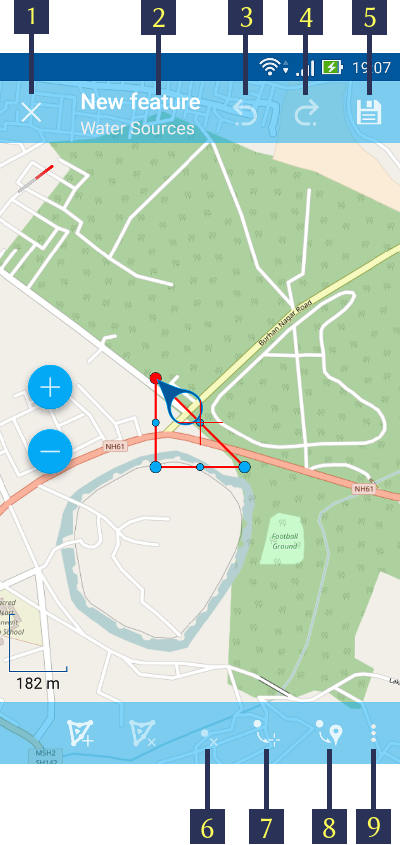
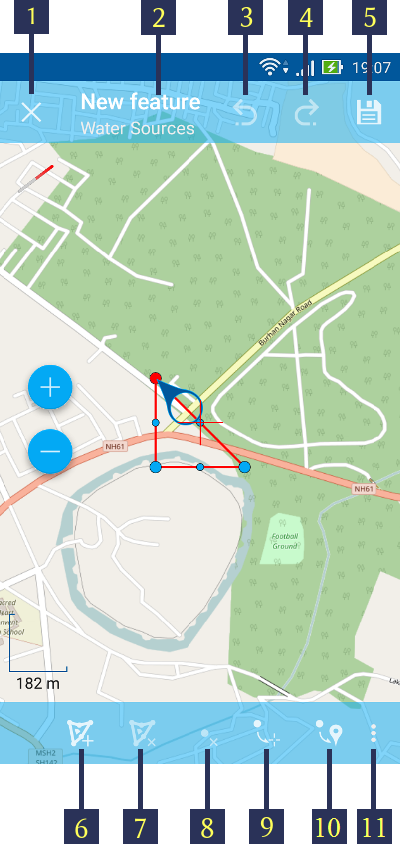
update Editing

diff --git a/source/editing.rst b/source/editing.rst
@@ -3,7 +3,7 @@
 .. _ngmobile_editing:
 
 Editing layers
-==============
+===============
 
 NextGIS Mobile allows you to edit vector layers added to the map. While editing, you can:
 
@@ -11,51 +11,27 @@ NextGIS Mobile allows you to edit vector layers added to the map. While editing,
 * delete features;
 * edit features.
 
-Switching to Edit mode
-----------------------
+.. _ngmobile_switch_to_edit:
 
-There are several ways to start edit mode.
+Switching to Edit mode
+-----------------------
+
+There are several ways to switch to Edit mode.
 
 1. The first way is Main actions button (the big blue button in the right bottom corner of map screen). Pressing Main actions button opens a menu of most common actions (see :numref:`ngmobile_common_action_menu_pic`).
 
 .. figure:: _static/ngmobile_mainscreen_2.png
    :name: ngmobile_common_action_menu_pic
    :align: center
-   :height: 11cm
+   :height: 10cm
    
    Common actions menu.   
    
-   The numbers indicate: 1 - Zoom in; 2 - Zoom out; 3 – Scale ruler; 4 - Measure button; 5 - Geometry by tracking; 6 - Edit layers; 7 - Add current location; 8 - Close action menu.
+   The numbers indicate: 1 - Zoom in; 2 - Zoom out; 3 – Scale ruler; 4 - Measure button; 5 - Add geometry by tracking; 6 - Edit layers; 7 - Add current location; 8 - Close action menu.
 
-You need to tap the pencil button (item 6 in :numref:`ngmobile_common_action_menu_pic`) to go to edit mode.
+You need to tap the pencil button (item 6 in :numref:`ngmobile_common_action_menu_pic`) to switch to Edit mode.
 
-2. The second way to start editing is to long-press the geometry. This will open an Editing Toolbar at the bottom. There you need to tap the "Edit" button to switch on to edit mode (item 3 in ).
-
-3. In the third way, tap on "Layers tree menu" (item 1 in :numref:`ngmobile_main_activity_pic_1`). Then tap on the context menu button next to the layer name (item 5 in :numref:`ngmobile_layer_tree_pic`). This will pop up the context menu itms as shown in item 6 in :numref:`ngmobile_layer_tree_pic`. There you need to select "Edit".
-
-The Editing Toolbar
--------------------
-
-After switching to edit mode from any of the above, an Editing Toolbar is opened at the bottom of the map screen. (see :numref:`ngmobile_editing_toolbar_pic`)
-
-.. figure:: _static/toolbar_edit_layer.png
-   :name: ngmobile_editing_toolbar_pic
-   :align: center
-   :width: 10cm
-   
-   Editing Toolbar.
-   
-   The numbers indicate: 1 - Quit edit mode; 2 - Add new feature; 3 – Edit feature; 4 - Delete feature; 5 - Atributes info.
-   
-.. note::
-   This editing toolbar is common for all type of layers, viz, point, line or polygon.
-
-.. _ngmobile_add_geometry:
-
-Adding features
----------------
-
-If you select the first method To add feature to a vector layer by pressing Main actions button, press a pencil icon (see item 6 in :numref:`ngmobile_common_action_menu_pic`). Tap on a layer name, you'd like to edit in an opened dialog (see :numref:`ngmobile_select_layer_dialogtch_pic`). 
+Then select a vector layer you want to edit in an opened dialog (see :numref:`ngmobile_select_layer_dialogtch_pic`). 
 
 .. figure:: _static/select_layer_dialogtch.png
    :name: ngmobile_select_layer_dialogtch_pic
@@ -64,94 +40,171 @@ If you select the first method To add feature to a vector layer by pressing Main
    
    Select layer dialog.
 
-After you select a layer, map screen switches into Edit mode. It displays an editing toolbar at the bottom of the map screen, as shown in :numref:`ngmobile_editing_toolbar_pic`. You can create any type of geometry (points, lines or polygons).
+2. The second way to switch to Edit mode is to long-press the geometry you want to edit. 
+
+3. The third way is to open Layers tree panel (item 1 in :numref:`ngmobile_main_activity_pic_1`) and tap on Layer contextual menu icon next to the vector layer name (item 5 in :numref:`ngmobile_layer_tree_pic`). This will the contextual menu items (item 6 in :numref:`ngmobile_layer_tree_pic`). There you need to select "Edit".
+
+The Editing Toolbar
+--------------------
+
+After switching to Edit mode using any of the methods described in :ref:`ngmobile_switch_to_edit` section Editing Toolbar is opened at the bottom of the map screen (see :numref:`ngmobile_editing_toolbar_pic`).
+
+.. figure:: _static/toolbar_edit_layer.png
+   :name: ngmobile_editing_toolbar_pic
+   :align: center
+   :width: 6cm
+   
+   Editing Toolbar.
+   
+   The numbers indicate: 1 - Quit Edit mode; 2 - Add new feature; 3 – Edit feature; 4 - Delete feature; 5 - Attributes info.
+   
+.. note::
+   This editing toolbar is common for all vector layers irrespective of the type of geometry they contain (point, line or polygon).
+
+.. _ngmobile_add_geometry:
+
+Adding features
+----------------
+
+To create a new feature first select a layer you want to add this feature to. Then switch to Edit mode using any of the methods described in :ref:`ngmobile_switch_to_edit` section. 
+
+After Editing Toolbar is opened tap "Add new feature" button (item 2 in :numref:`ngmobile_editing_toolbar_pic`). 
+
+.. note::
+   Type of geometry of a new feature should correspond to the type of geometry of the layer you want to add this feature to (e.g. you can only add a new point to a point/multipoint vector layer, a new line - to a line/multiline vector layer, etc.).
+
+.. note::
+   If you want to start adding new features from scratch first you have to create an empty layer as described in :ref:`ngmobile_create_vector` section.
 
 .. _ngmobile_add_point:
 
 Adding a point
-^^^^^^^^^^^^^^
+^^^^^^^^^^^^^^^
 
-To add a point to an existing layer first select a point vector layer from any of the 3 methods mentioned above. Then tap on the + icon in Bottom toolbar (item 2 in :numref:`ngmobile_editing_toolbar_pic`).
+1. To create a new point first select a point/miltipoint vector layer you want to add this feature to. Then switch to Edit mode using any of the methods described in :ref:`ngmobile_switch_to_edit` section. 
 
-New point will appear in the center of the screen highlighted in red, together with arrow icon. You can move this point any where on the map screen by simply holding the circular handle. The red cross hair marker is left behind at the center of the map screen.(see :numref:`ngmobile_creation_of_points_pic`).
+2. Tap "Add new feature" button in Editing Toolbar (item 2 in :numref:`ngmobile_editing_toolbar_pic`). 
+
+3. In a point layer a new point will appear in the center of the screen highlighted in red. You can move this point anywhere on the map simply by dragging the circular handle attached to it. The red crosshair marker indicates the center of Map screen.(see :numref:`ngmobile_creation_of_points_pic`).
 
 .. figure:: _static/creation_of_points.png
    :name: ngmobile_creation_of_points_pic
    :align: center
    :height: 10cm
 
-   Creating a point.
+   Adding a point to Point layer.
    
-   The numbers indicate: 1 - Close editing (without saving); 2 - Feature Id & name of the Layer; 3 - Undo changes; 4 - Redo changes; 5 - Set attributes; 6 - Move point to the Red Crossover (Center); 7 - Move point to the current location.
+   The numbers indicate: 1 - Quit (without saving); 2 - Feature ID & Name of the Layer; 3 - Undo changes; 4 - Redo changes; 5 - Set attributes; 6 - Move point to the center of Map screen; 7 - Move point to the current location.
 
-After new point is added geometrically, you need to set its attributes by tapping on the "floppy" button (item 5 in :numref:`ngmobile_creation_of_points_pic`). Pressing floppy icon will save a new point and open Attributes editing form (see :numref:`ngmobile_input_form_attributes_pic`).
+4. In a multipoint layer tap "Add point" (item 6 in :numref:`ngmobile_creation_of_multipoints_pic`) and follow the steps described above.
+
+.. figure:: _static/creation_of_multipoints.png
+   :name: ngmobile_creation_of_multipoints_pic
+   :align: center
+   :height: 10cm
+
+   Adding a point to Multipoint layer.
+   
+   The numbers indicate: 1 - Quit (without saving); 2 - Feature ID & Name of the Layer; 3 - Undo changes; 4 - Redo changes; 5 - Set attributes; 6 - Add point; 7 - Delete point; 8 - Move point to the center of Map screen; 9 - Move point to the current location.
+
+5. After a geometry of new point is added you may set its attributes by tapping on the "floppy" button (item 5 in :numref:`ngmobile_creation_of_points_pic` and :numref:`ngmobile_creation_of_multipoints_pic`). Pressing floppy icon will save a new point and open Attributes editing form (see :numref:`ngmobile_input_form_attributes_pic`).
 
 .. figure:: _static/input_form_attributes.png
    :name: ngmobile_input_form_attributes_pic
    :align: center
    :height: 10cm
    
-   Standard attributes editing form.
+   Attributes editing form.
    
-   The numbers indicate: 1 - Back to previous screen; 2 - Apply changes; 3 - Camera.
+   The numbers indicate: 1 - Back to previous screen; 2 - Apply changes; 3 - Add photo.
    
-Once all the attributes are filled, tap on the Tick icon on the right top corner (item 2 in :numref:`ngmobile_input_form_attributes_pic`) to save the attributes. If you tap on the back button on the left top corner (item 1 in :numref:`ngmobile_input_form_attributes_pic`), the system will warn you of any unsaved changes. The Camera icon at the bottom (item 3 in :numref:`ngmobile_input_form_attributes_pic`) facilitates you to open any photograph from the local storage or take a new photograph of the geographic object just digitized.
+5. When all the attributes are set tap "Apply changes" button (item 2 in :numref:`ngmobile_input_form_attributes_pic`) to save the attributes. If you tap "Back" button instead (item 1 in :numref:`ngmobile_input_form_attributes_pic`) the app will warn you of any unsaved changes. You can also attach photos to each feature using "Add photo" button in Attributes editing form (item 3 in :numref:`ngmobile_input_form_attributes_pic`).
 
 .. _ngmobile_add_line:
 
 Adding a line
 ^^^^^^^^^^^^^
 
-To add a line to an existing layer first select a line vector layer from any of the 3 methods mentioned above. Then tap on the + icon in Bottom toolbar (item 2 in :numref:`ngmobile_editing_toolbar_pic`).
+1. To create a new point first select a linestring/multilinestring vector layer you want to add this feature to. Then switch to Edit mode using any of the methods described in :ref:`ngmobile_switch_to_edit` section. 
 
-New line will appear in the center of the screen, with one of its vertices highlighted in red and with arrow icon (see :numref:`ngmobile_creating_lines_pic`).
+2. Tap "Add new feature" button in Editing Toolbar (item 2 in :numref:`ngmobile_editing_toolbar_pic`).  
+
+3. In a linestring layer a new line will appear in the center of the screen, with one of its vertices highlighted in red (see :numref:`ngmobile_creating_lines_pic`).
 
 .. figure:: _static/creating_lines.png
    :name: ngmobile_creating_lines_pic
    :align: center
    :height: 10cm
 
-   Creating a line.
+   Adding a line to Linestring layer.
    
-   The numbers indicate: 1 - Close editing (without saving); 2 - Feature Id & name of the Layer; 3 - Undo changes; 4 - Redo changes; 5 - Set attributes; 6  - Delete vertex; 7 - Move point to the Red Crossover (Center); 8 - Move point to the current location; 9 - Start tracking mode.
+   The numbers indicate: 1 - Quit (without saving); 2 - Feature ID & name of the Layer; 3 - Undo changes; 4 - Redo changes; 5 - Set attributes; 6  - Delete vertex; 7 - Move vertex to the center of Map screen; 8 - Move vertex to the current location; 9 - Edit by walk.
    
-You can move the vertices any where on the map screen by holding their handle. If you tap on the middle vertex, it will create  two extra vertices automatically. Again in their turn you can move & create as many vertices till your purpose is served. In this way you can even get a smooth curve as per the geographic shape.
+You can move the vertices anywhere on the map simply by dragging the circular handle attached to the selected vertex. If you tap on the vertex in the middle of the line, two new vertices will be created automatically. This way you can add as many vertices as you need and shape the line geometry any way you like, including smooth curves.
 
-After new line is added geometrically, you need to set its attributes by tapping on the "floppy" button (item 5 in :numref:`ngmobile_creating_lines_pic`). Pressing floppy icon will save a new line and open Attributes editing form as shown in :numref:`ngmobile_input_form_attributes_pic` above.   
+4. In a multilinestring layer tap "Add line" (item 6 in :numref:`ngmobile_creating_multilines_pic`) and follow the steps described above.
 
-Once all the attributes are filled, tap on the Tick icon on the right top corner (item 2 in :numref:`ngmobile_input_form_attributes_pic`) to save the attributes. If you tap on the back button on the left top corner (item 1 in :numref:`ngmobile_input_form_attributes_pic`), the system will warn you of any unsaved changes. The Camera icon at the bottom (item 3 in :numref:`ngmobile_input_form_attributes_pic`) facilitates you to open any photograph from the local storage or take a new photograph of the geographic object just digitized.
+.. figure:: _static/creating_multilines.png
+   :name: ngmobile_creating_multilines_pic
+   :align: center
+   :height: 10cm
+
+   Adding a line to Multilinestring layer.
+   
+   The numbers indicate: 1 - Quit (without saving); 2 - Feature ID & name of the Layer; 3 - Undo changes; 4 - Redo changes; 5 - Set attributes; 6 - Add line; 7 - Delete line; 8 - Delete vertex; 9 - Move vertex to the center of Map screen; 10 - Move vertex to the current location; 11 - Edit by walk.
+
+5. After a geometry of new line is added you may set its attributes by tapping on the "floppy" button (item 5 in :numref:`ngmobile_creating_lines_pic` and :numref:`ngmobile_creating_multilines_pic`). Pressing floppy icon will save a new line and open Attributes editing form (see :numref:`ngmobile_input_form_attributes_pic`).   
+
+6. When all the attributes are set tap "Apply changes" button (item 2 in :numref:`ngmobile_input_form_attributes_pic`) to save the attributes. If you tap "Back" button instead (item 1 in :numref:`ngmobile_input_form_attributes_pic`) the app will warn you of any unsaved changes. You can also attach photos to each feature using "Add photo" button in Attributes editing form (item 3 in :numref:`ngmobile_input_form_attributes_pic`).
 
 .. _ngmobile_add_polygon:
 
 Adding a polygon
 ^^^^^^^^^^^^^^^^^^
 
-To add a line to an existing layer first select a line vector layer from any of the 3 methods mentioned above. Then tap on the + icon in Bottom toolbar (item 2 in :numref:`ngmobile_editing_toolbar_pic`).
+1. To create a new polygon first select a polygon/multipolygon vector layer you want to add this feature to. Then switch to Edit mode using any of the methods described in :ref:`ngmobile_switch_to_edit` section. 
 
-New polygon will appear in the center of the screen, with one of its vertices highlighted in red and with arrow icon (see :numref:`ngmobile_creation_landfill_pic`).
+2. Tap "Add new feature" button in Editing Toolbar (item 2 in :numref:`ngmobile_editing_toolbar_pic`).  
+
+3. In a polygon layer a new polygon will appear in the center of the screen, with one of its vertices highlighted in red (see :numref:`ngmobile_creation_landfill_pic` or ...).
 
 .. figure:: _static/creation_landfill.png
    :name: ngmobile_creation_landfill_pic
    :align: center
    :height: 10cm
 
-   Creating a polygon.
+   Adding a polygon to Polygon layer.
    
-   The numbers indicate: 1 - Close editing (without saving); 2 - Feature Id & name of the Layer; 3 - Undo changes; 4 - Redo changes; 5 - Set attributes; 6  - Delete vertex; 7 - Move point to the Red Crossover (Center); 8 - Move point to the current location; 9 - Append geometry by walk.
+   The numbers indicate: 1 - Quit (without saving); 2 - Feature ID & name of the Layer; 3 - Undo changes; 4 - Redo changes; 5 - Set attributes; 6 - Add hole; 7 - Delete hole; 8 - Delete vertex; 9 - Move vertex to the center of Map screen, 10 - Move vertex to the current location, 11 - Append geometry by walk).
+
+You can move the vertices anywhere on the map simply by dragging the circular handle attached to the selected vertex. If you tap on the vertex in the middle of the line, two new vertices will be created automatically. This way you can add as many vertices as you need and shape the polygon geometry any way you like, including smooth curves.
+
+You can also create holes in polygons by tapping button "Add hole" (item 6 in :numref:`ngmobile_creation_landfill_pic` or item 8 in :numref:`ngmobile_creation_multipolygon_pic`) and creating a hole geometry the same way you create polygon geometry.
+
+.. note::
+   Hole geometry must be located INSIDE a polygon geometry otherwise the changes won't be saved!
+
+4. In a multilipolygon layer tap "Add polygon" (item 6 in :numref:`ngmobile_creation_multipolygon_pic`) and follow the steps described above.
+
+.. figure:: _static/creation_multipolygon.png
+   :name: ngmobile_creation_multipolygon_pic
+   :align: center
+   :height: 10cm
+
+   Adding a polygon to Multipolygon layer.
    
-.. note::   
-   The left 2 buttons are for multi polygon editing, an advanced topic not covered here.
+   The numbers indicate: 1 - Quit (without saving); 2 - Feature ID & name of the Layer; 3 - Undo changes; 4 - Redo changes; 5 - Set attributes; 6 - Add polygon; 7 - Delete polygon; 8 - Add hole; 9 - Delete hole; 10 - Delete vertex; 11 - Contextual menu with the rest of commands (Move vertex to the center of Map screen, Move vertex to the current location, Append geometry by walk)
 
-After new polygon is added geometrically, you need to set its attributes by tapping on the "floppy" button (item 5 in :numref:`ngmobile_creation_landfill_pic`). Pressing floppy icon will save a new polygon and open Attributes editing form as shown in :numref:`ngmobile_input_form_attributes_pic` above.   
+5. After a geometry of new polygon is added you may set its attributes by tapping on the "floppy" button (item 5 in :numref:`ngmobile_creation_landfill_pic` and :numref:`ngmobile_creation_multipolygon_pic`). Pressing floppy icon will save a new line and open Attributes editing form (see :numref:`ngmobile_input_form_attributes_pic`).   
 
-Once all the attributes are filled, tap on the Tick icon on the right top corner (item 2 in :numref:`ngmobile_input_form_attributes_pic`) to save the attributes. If you tap on the back button on the left top corner (item 1 in :numref:`ngmobile_input_form_attributes_pic`), the system will warn you of any unsaved changes. The Camera icon at the bottom (item 3 in :numref:`ngmobile_input_form_attributes_pic`) facilitates you to open any photograph from the local storage or take a new photograph of the geographic object just digitized.
+6. When all the attributes are set tap "Apply changes" button (item 2 in :numref:`ngmobile_input_form_attributes_pic`) to save the attributes. If you tap "Back" button instead (item 1 in :numref:`ngmobile_input_form_attributes_pic`) the app will warn you of any unsaved changes. You can also attach photos to each feature using "Add photo" button in Attributes editing form (item 3 in :numref:`ngmobile_input_form_attributes_pic`).
 
 .. _ngmobile_add_location:
 
 Adding current location 
 -----------------------
 
-To add current location to a vector layer press Main actions button, and then press a pushpin icon (item 7 in  :numref:`ngmobile_common_action_menu_pic`). In an opened dialog select a layer you'd like to add current location to (only point geometry layers will be displayed) (see :numref:`ngmobile_select_layer_dialog_pic`). If there is only one points layer available, it will be selected automatically. 
+To add current location to a vector layer press Main actions button, and then press a pushpin icon (item 7 in  :numref:`ngmobile_common_action_menu_pic`). In an opened dialog select a layer you'd like to add current location to (only point/multipoint geometry will be displayed) (see :numref:`ngmobile_select_layer_dialog_pic`). If there is only one point/multipoint layer available, it will be selected automatically. 
 
 .. figure:: _static/ngmobile_selectlayer.png
    :name: ngmobile_select_layer_dialog_pic
@@ -160,24 +213,24 @@ To add current location to a vector layer press Main actions button, and then pr
    
    Select layer dialog.
 
-Current location will be added to selected layer as a new point consisting of 1 point.
+Current location will be added to selected layer as a new point or a new multipoint consisting of 1 point.
 
-Further actions are same as in "Adding a point".
+You can then add attributes as described in :ref:`ngmobile_add_point` section.
 
 .. note::
-   You can add current location to Point geometry layers only!
+   You can add current location to Point and Multipoint layers only!
 
 .. _ngmobile_add_track:
 
 Adding line or polygon by tracking
 ----------------------------------
 
-To add line or polygon by tracking to a vector layer press Main actions button, and then press a walking man icon (item 5 in  :numref:`ngmobile_common_action_menu_pic`). In an opened dialog select a layer you'd like to add current location to (only line and polygon geometry layers will be displayed) (see :numref:`ngmobile_select_layer_dialog_pic`). 
+To add line or polygon by tracking to a vector layer press Main actions button, and then press a walking man icon (item 5 in  :numref:`ngmobile_common_action_menu_pic`). In an opened dialog select a layer you'd like to add a track to (only linestring/multilinestring and polygon/multipolygon layers will be displayed) (see :numref:`ngmobile_select_layer_dialog_pic`). 
 
-Find more information about this & further topics at :ref:`ngmobile_edit_vector_tracks`.
+Find more information about tracking in :ref:`ngmobile_edit_vector_tracks` section.
 
 .. note::
-   You can add tracks to either Line or Polygon geometry layers.
+   You can add tracks to either Linestring/Multilinestring or Polygon/Multipolygon layers.
    
 .. _ngmobile_edit_geometry:
 
@@ -305,7 +358,7 @@ The Attributes toolbar is common for all the geometric features, viz. point, lin
 .. _ngmobile_attribute_table:
 
 The attribute table
-^^^^^^^^^^^^^^^^^^^^^^^^^^^^^^^
+^^^^^^^^^^^^^^^^^^^^
 
 Tap on "Layers tree menu" (item 1 in :numref:`ngmobile_main_activity_pic_1`). Then tap on the context menu button next to the layer name (item 5 in :numref:`ngmobile_layer_tree_pic`). This will pop up the context menu itms as shown in item 6 in :numref:`ngmobile_layer_tree_pic`. There you need to select "Attributes". Attribute table for that layer opens as shown in :numref:`ngmobile_attribute_table_pic` below.
 

diff --git a/source/intro.rst b/source/intro.rst
@@ -43,7 +43,7 @@ Some icons used in NextGIS Mobile are from:
    
    .. image:: _static/cc_by.png  
 
-Documentation is describing NextGIS Mobile version 2.5.
+Documentation is describing NextGIS Mobile version 2.4.
 
  
 .. _ngmobile_launch_conditions:
